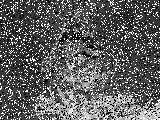
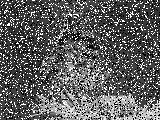
add bilateral filter

diff --git a/dip2_py/dip2.py b/dip2_py/dip2.py
@@ -49,7 +49,8 @@ def spatial_convolution(src: np.ndarray, kernel: np.ndarray) -> np.ndarray:
     Performs spatial convolution of image and filter kernel.
     """
     # TO DO !!
-    result = ((src * np.flip(kernel)).sum()/kernel.size).astype(np.int8)
+    # result = ((src * np.flip(kernel)).sum()/kernel.size).astype(np.uint8)
+    result = ((src * np.flip(kernel)).sum()).astype(np.uint8)
     return np.array(result, copy=True)
 
 
@@ -67,7 +68,8 @@ def average_filter(src: np.ndarray, k_size: int) -> np.ndarray:
     width = src.shape[1]
     filtered_img = np.empty((height, width), dtype=np.uint8)
 
-    kernel = np.ones((k_size, k_size), dtype=np.uint8)
+    kernel = np.ones((k_size, k_size))
+    kernel /= kernel.sum() #normalization
 
     for y in range(height):
         for x in range(width):
@@ -104,7 +106,39 @@ def bilateral_filter(src: np.ndarray, k_size: int, sigma_spatial: float, sigma_r
     Bilateral filter.
     """
     # TO DO !!
-    return np.array(src, copy=True)
+    print("bilateral_filter():")
+    pad_size = int(k_size/2)
+    padded_src = np.pad(src, (pad_size, pad_size), mode="reflect")
+
+    height = src.shape[0]
+    width = src.shape[1]
+    filtered_img = np.empty((height, width), dtype=np.uint8)
+
+    # spatial kernel
+    distances = np.zeros((k_size,k_size), dtype=float)
+    kernel_center = int(k_size/2)
+    for y in range(k_size):
+        for x in range(k_size):
+            distances[y,x] = (x-kernel_center)**2 + (y-kernel_center)**2
+    spatial_kernel = np.exp(-distances/(2*sigma_spatial**2))
+
+    # iterate over image
+    for y in range(height):
+        for x in range(width):
+            crapped = padded_src[y:y+k_size, x:x+k_size]
+
+            # radiometric kernel
+            center_pix = crapped[kernel_center, kernel_center]
+            diff_intensity = (crapped - center_pix)**2
+            radiometric_kernel = np.exp(-diff_intensity/(2*sigma_radiometric**2))
+
+            # combine kernels
+            kernel = spatial_kernel*radiometric_kernel
+            kernel /= kernel.sum() #normalization
+            filtered_img[y,x] = spatial_convolution(crapped, kernel)
+
+    return np.array(filtered_img, copy=True)
+
 
 
 def nlm_filter(src: np.ndarray, search_size: int, sigma: float) -> np.ndarray:
